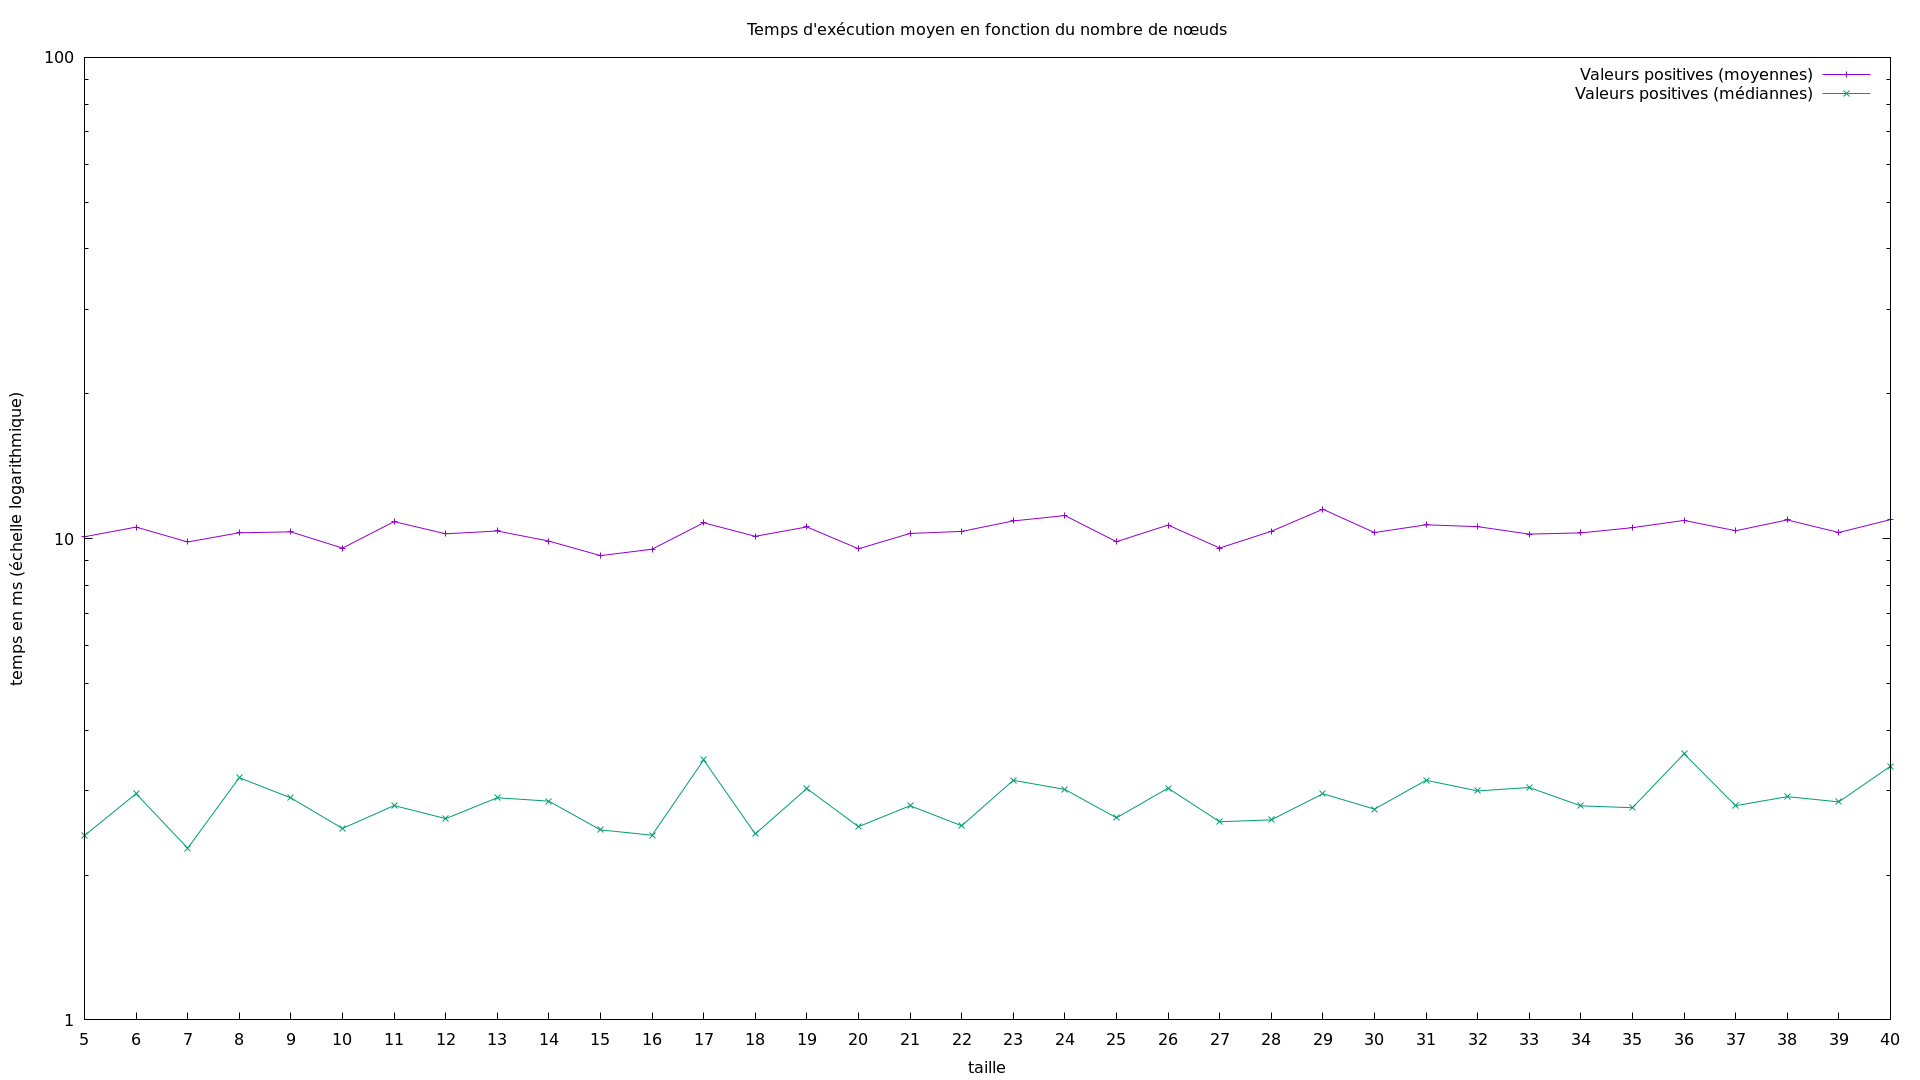
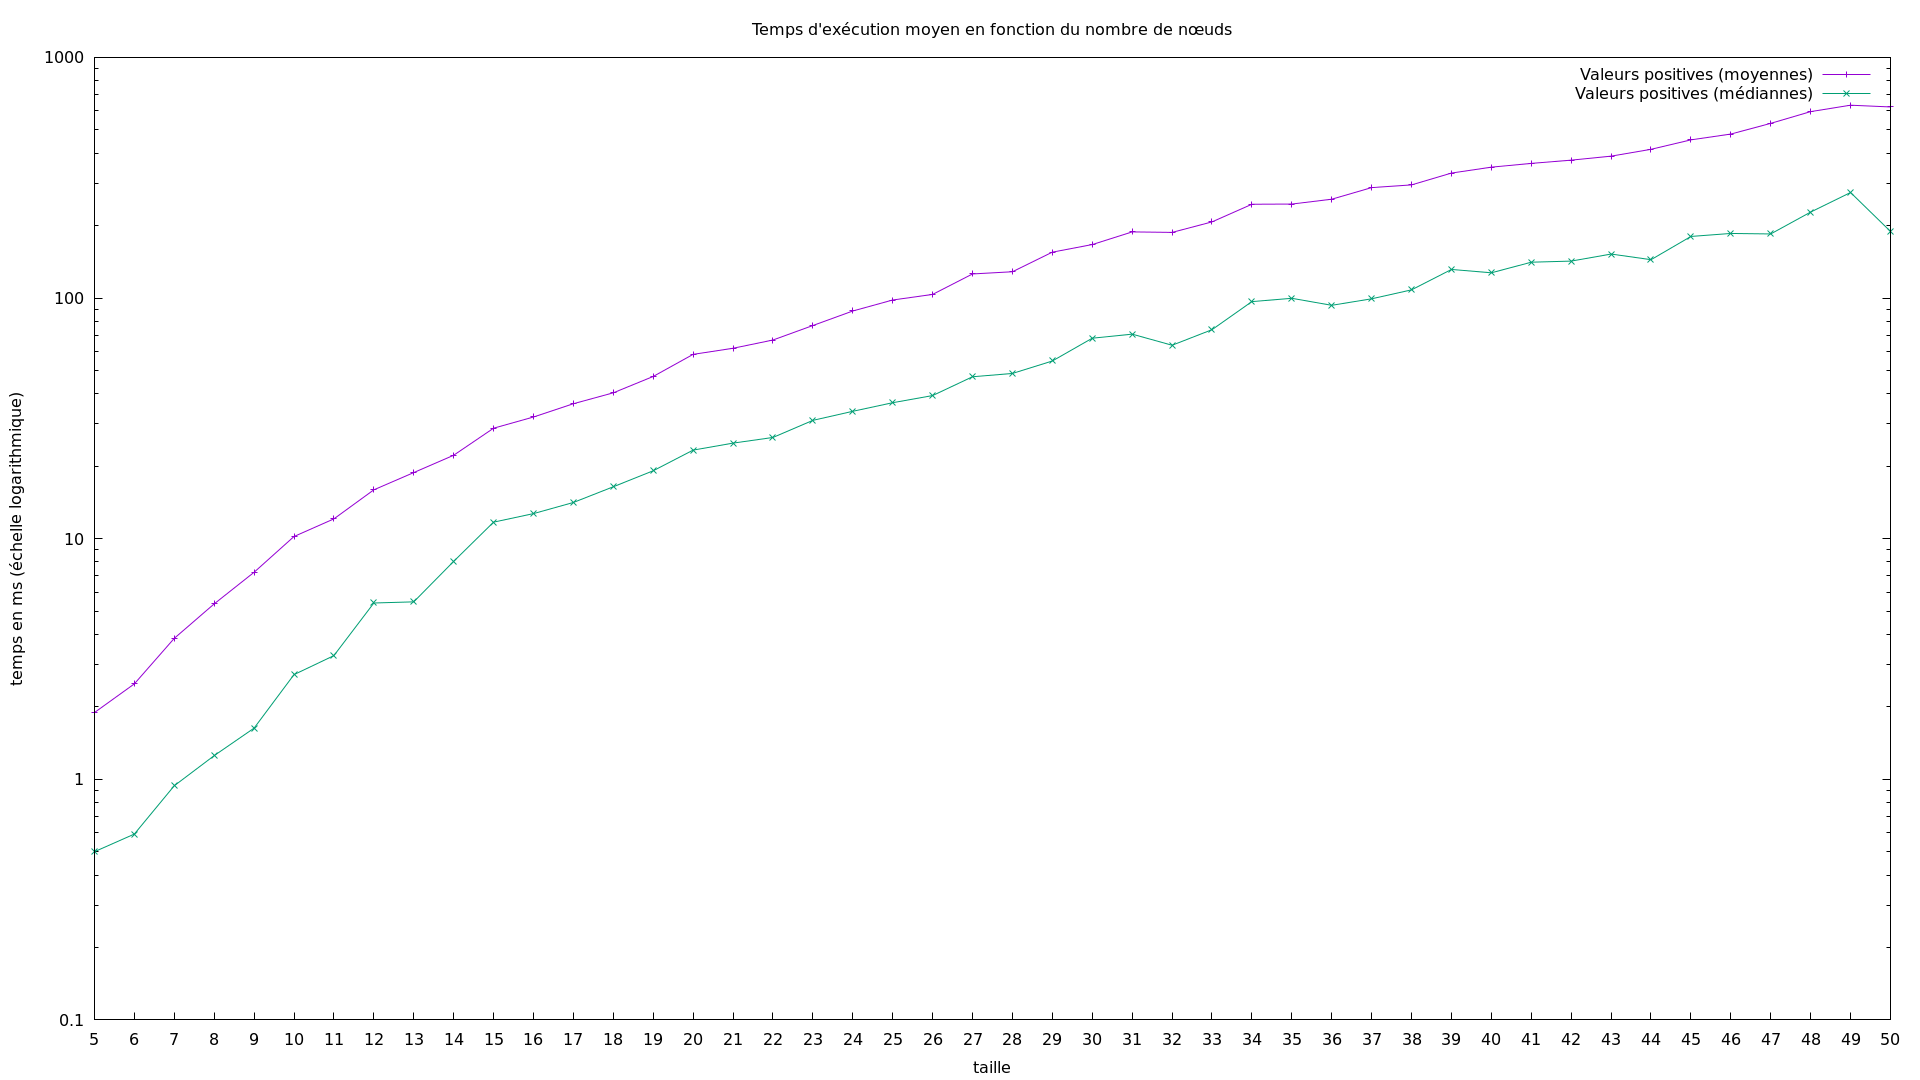
Résolution de la fuite de mémoire

diff --git a/src/main.cpp b/src/main.cpp
@@ -6,63 +6,20 @@
 #include "ReachabilityGame.hpp"
 #include "MinMaxGame.hpp"
 #include "exploration/BestFirstSearch.hpp"
+#include "generators/RandomGenerator.hpp"
 
 using namespace exploration;
 using namespace types;
 
 int main() {
-    Vertex::Ptr v0 = std::make_shared<Vertex>(0, 1, 2);
-    Vertex::Ptr v1 = std::make_shared<Vertex>(1, 0, 2);
-    Vertex::Ptr v2 = std::make_shared<Vertex>(2, 1, 2);
-    Vertex::Ptr v3 = std::make_shared<Vertex>(3, 0, 2);
-    Vertex::Ptr v4 = std::make_shared<Vertex>(4, 0, 2);
-    Vertex::Ptr v5 = std::make_shared<Vertex>(5, 1, 2);
-    Vertex::Ptr v6 = std::make_shared<Vertex>(6, 0, 2);
-    Vertex::Ptr v7 = std::make_shared<Vertex>(7, 1, 2);
-
-    v0->addSuccessor(v0, 1);
-    v1->addSuccessor(v0, 1);
-    v2->addSuccessor(v0, 1);
-    v2->addSuccessor(v1, 1);
-    v3->addSuccessor(v0, 5);
-    v3->addSuccessor(v2, 1);
-    v4->addSuccessor(v2, 5);
-    v4->addSuccessor(v3, 1);
-    v5->addSuccessor(v4, 1);
-    v5->addSuccessor(v6, 1);
-    v6->addSuccessor(v7, 1);
-    v7->addSuccessor(v6, 1);
-
-    std::vector<Vertex::Ptr> vertices{v0, v1, v2, v3, v4, v5, v6, v7};
-    Graph g(vertices, 2);
-
-    std::vector<Player> players;
-    players.emplace_back(0);
-    players[0].addVertex(v1);
-    players[0].addVertex(v3);
-    players[0].addVertex(v4);
-    players[0].addVertex(v6);
-    players[0].addGoal(v0);
-    v0->addTargetFor(0);
-
-    players.emplace_back(1);
-    players[1].addVertex(v2);
-    players[1].addVertex(v5);
-    players[1].addVertex(v7);
-    players[1].addGoal(v0);
-    v0->addTargetFor(1);
-
-    ReachabilityGame game(g, v0, players);
-
     using namespace std::placeholders;
+    for (int i = 0 ; i < 1000 ; i++) {
+        ReachabilityGame game = generators::randomGenerator(50, 1, 10, 2, false);
 
-    heuristicSignature fun = std::bind(&ReachabilityGame::AStartPositive, &game, _1, _2, _3);
+        heuristicSignature fun = std::bind(&ReachabilityGame::AStartPositive, &game, _1, _2, _3);
 
-    Path p = bestFirstSearch(game, fun);
-    std::cout << p << '\n';
-
-    std::cout << '\n';
-    game.printDOT();
+        Path p = bestFirstSearch(game, fun);
+    }
 
     return 0;
 }

diff --git a/src/MinMaxGame.cpp b/src/MinMaxGame.cpp
@@ -159,18 +159,16 @@ void MinMaxGame::initS(const std::unordered_set<Vertex::Ptr>& goals) {
         Successor node;
         if (goals.find(vertices[i]) != goals.end()) {
             node.cost = 0;
-            node.pred = nullptr;
         }
         else {
             node.cost = Long::infinity;
-            node.pred = nullptr;
         }
         v->S.push(node);
     }
 }
 
 void MinMaxGame::relax(DijVertex::Ptr s, const Vertex::Edge& edge) {
-    DijVertex::Ptr p = std::dynamic_pointer_cast<DijVertex>(edge.first);
+    DijVertex::Ptr p = std::dynamic_pointer_cast<DijVertex>(edge.first.lock());
     const Successor &succ = s->S.top();
     Long pVal = edge.second[MIN] + succ.cost;
     const Successor &old = p->S.top();
@@ -180,7 +178,6 @@ void MinMaxGame::relax(DijVertex::Ptr s, const Vertex::Edge& edge) {
         if (p->getPlayer() == MIN) {
             Successor newSucc;
             newSucc.cost = pVal;
-            newSucc.pred = s;
             p->S = std::priority_queue<Successor, std::vector<Successor>, Successor>();
             p->S.push(newSucc);
         }
@@ -189,7 +186,6 @@ void MinMaxGame::relax(DijVertex::Ptr s, const Vertex::Edge& edge) {
     if (p->getPlayer() == MAX) {
         Successor succ;
         succ.cost = pVal;
-        succ.pred = s;
         p->S.push(succ);
     }
 }

diff --git a/src/Vertex.cpp b/src/Vertex.cpp
@@ -28,7 +28,7 @@ void Vertex::addSuccessor(Ptr vertex, std::vector<Long> weights) {
 Vertex::Edge Vertex::getSuccessor(unsigned int id) const {
     auto itr = m_successors.find(id);
     if (itr == m_successors.end()) {
-        return std::make_pair(nullptr, std::vector(m_nPlayers, Long::infinity));
+        return std::make_pair(std::weak_ptr<Vertex>(), std::vector(m_nPlayers, Long::infinity));
     }
     else {
         return itr->second;
@@ -38,7 +38,7 @@ Vertex::Edge Vertex::getSuccessor(unsigned int id) const {
 Vertex::Edge Vertex::getPredecessor(unsigned int id) const {
     auto itr = m_predecessors.find(id);
     if (itr == m_predecessors.end()) {
-        return std::make_pair(nullptr, std::vector(m_nPlayers, Long::infinity));
+        return std::make_pair(std::weak_ptr<Vertex>(), std::vector(m_nPlayers, Long::infinity));
     }
     else {
         return itr->second;
@@ -52,7 +52,8 @@ bool Vertex::hasSuccessor(unsigned int id) const {
 
 std::vector<Long> Vertex::getWeights(unsigned int id) const {
     auto e = getSuccessor(id);
-    if (e.first) {
+    // weak_ptr => on a besoin de "lock" pour savoir si le pointeur est valide
+    if (e.first.lock()) {
         return e.second;
     }
     else {

diff --git a/src/ReachabilityGame.cpp b/src/ReachabilityGame.cpp
@@ -52,7 +52,7 @@ void ReachabilityGame::printDOT() const {
     for (auto itr = m_graph.cbegin() ; itr != m_graph.cend() ; ++itr) {
         const Vertex::Ptr v = *itr;
         for (auto edge : *v) {
-            const Vertex::Ptr u = edge.second.first;
+            const Vertex::Ptr u = edge.second.first.lock();
             const std::vector<Long> &weights = edge.second.second;
 
             std::cout << *v << " -> " << *u << "[label=\"(";
@@ -104,7 +104,7 @@ std::size_t ReachabilityGame::numberOfReachableVertices() const {
         nReachable++;
 
         for (auto itr : *v) {
-            const Vertex::Ptr u = itr.second.first;
+            const Vertex::Ptr u = itr.second.first.lock();
 
             // Si on n'a pas encore exploré ce noeud
             if (explored.find(u) == explored.end()) {

diff --git a/include/Player.hpp b/include/Player.hpp
@@ -14,7 +14,6 @@ public:
 
     /**
      * \brief Ajoute un sommet appartenant au joueur.
-     * Le sommet NE peut PLUS être modifié après l'insertion sous peine de briser l'ensemble. En effet, les éléments sont stockés selon leur hash key et modifier un sommet modifie son hash key.
      * \param vertex Le sommet
      */
     void addVertex(Vertex::Ptr vertex);
@@ -29,7 +28,6 @@ public:
      * \brief Ajoute un goal appartenant au joueur.
      * 
      * Le joueur est également enregistré dans le sommet.
-     * Le sommet NE peut PLUS être modifié après l'insertion sous peine de briser l'ensemble. En effet, les éléments sont stockés selon leur hash key et modifier un sommet modifie son hash key.
      * \param vertex Le goal
      */
     void addGoal(Vertex::Ptr vertex);

diff --git a/include/generators/RandomGenerator.hpp b/include/generators/RandomGenerator.hpp
@@ -113,7 +113,7 @@ namespace generators {
      * \param upOutgoing Le nombre maximal d'arcs sortants par sommet
      * \param minWeight Le poids minimal
      * \param maxWeight Le poids maximal
-     * \param multipleWeights Est-ce que chaque joueur voit le même poids sur l'arc ?
+     * \param multipleWeights Est-ce que les joueurs voient des poids différents sur un arc ?
      * \param nPlayers Le nombre de joueurs
      * \param sharedTargets Est-ce que plusieurs joueurs peuvent partager la même cible ?
      * \param probaPlayers Un tableau qui indique pour chaque joueur la probabilité qu'un sommet lui appartienne

diff --git a/performance/main.cpp b/performance/main.cpp
@@ -17,11 +17,11 @@ int main()
 
     std::cout << "Taille\tMoyenne\tMédianne\n";
 
-    for (std::size_t size = 5 ; size < 41 ; size++) {
-        std::vector<std::clock_t> times(1000, 0);
+    for (std::size_t size = 5 ; size < 101 ; size++) {
+        std::vector<std::clock_t> times(nGenerations, 0);
 
         for (std::size_t i = 0 ; i < nGenerations ; i++) {
-            ReachabilityGame game = generators::randomGenerator(10, 1, 5, 2, false);
+            ReachabilityGame game = generators::randomGenerator(size, 1, 5, 2, false);
 
             std::clock_t start = std::clock();
 

diff --git a/src/Path.cpp b/src/Path.cpp
@@ -35,7 +35,8 @@ void Path::addStep(Vertex::Ptr step) {
     // On vérifie d'abord que l'arc entre last et step existe
     Vertex::Ptr last = m_path.back();
     Vertex::Edge e = last->getSuccessor(step->getID());
-    if (!e.first) {
+    // weak_ptr !
+    if (!e.first.lock()) {
         throw InvalidPath("Il n'existe pas d'arc entre le dernier sommet (" + std::to_string(last->getID()) + ") du chemin et l'étape donnée (" + std::to_string(step->getID()) + ")");
     }
     // S'il existe, on ajoute les coûts sur l'arc aux coûts déjà calculés

diff --git a/src/exploration/BestFirstSearch.cpp b/src/exploration/BestFirstSearch.cpp
@@ -104,7 +104,7 @@ namespace exploration {
                 const Vertex::Ptr last = node->path.getLast();
 
                 for (const auto& succEdge : *last) {
-                    const Vertex::Ptr succ = succEdge.second.first;
+                    const Vertex::Ptr succ = succEdge.second.first.lock();
                     const std::vector<Long>& w = succEdge.second.second;
 
                     std::vector<Long> epsilon(nPlayers);

diff --git a/src/generators/RandomGenerator.cpp b/src/generators/RandomGenerator.cpp
@@ -80,7 +80,7 @@ namespace generators {
         }
 
         // On va vérifier que chaque joueur a bien au moins une cible. Si non, on va lui en donner une de force en négligeant sharedTargets
-        for (Player p : players) {
+        for (Player &p : players) {
             if (p.getGoals().size() == 0) {
                 p.addGoal(vertices[neighborDistribution(generator)]);
             }

diff --git a/include/Vertex.hpp b/include/Vertex.hpp
@@ -21,7 +21,7 @@ public:
     /**
      * \brief Représente un arc qui va de ce noeud vers un autre, avec un poids par joueur
      */
-    typedef std::pair<Ptr, std::vector<types::Long>> Edge;
+    typedef std::pair<std::weak_ptr<Vertex>, std::vector<types::Long>> Edge;
 
     /**
      * \brief Type de la map servant à stocker les arcs.

diff --git a/include/MinMaxGame.hpp b/include/MinMaxGame.hpp
@@ -49,7 +49,6 @@ private:
     // Structure pour S
     struct Successor {
         types::Long cost;
-        std::shared_ptr<DijVertex> pred;
 
         // Servira pour l'ordre dans la priority_queue
         bool operator()(const Successor &a, const Successor &b) {
